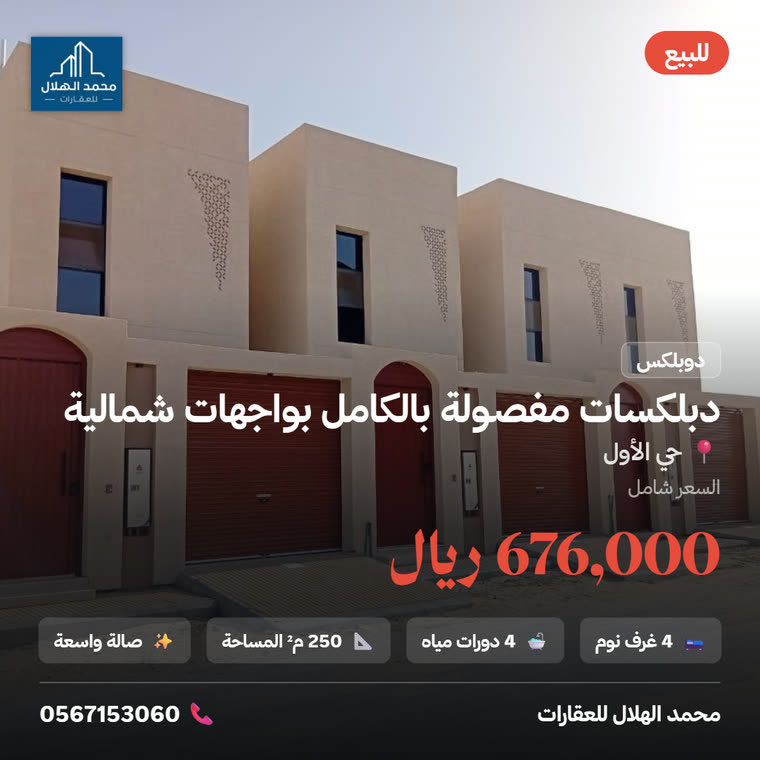
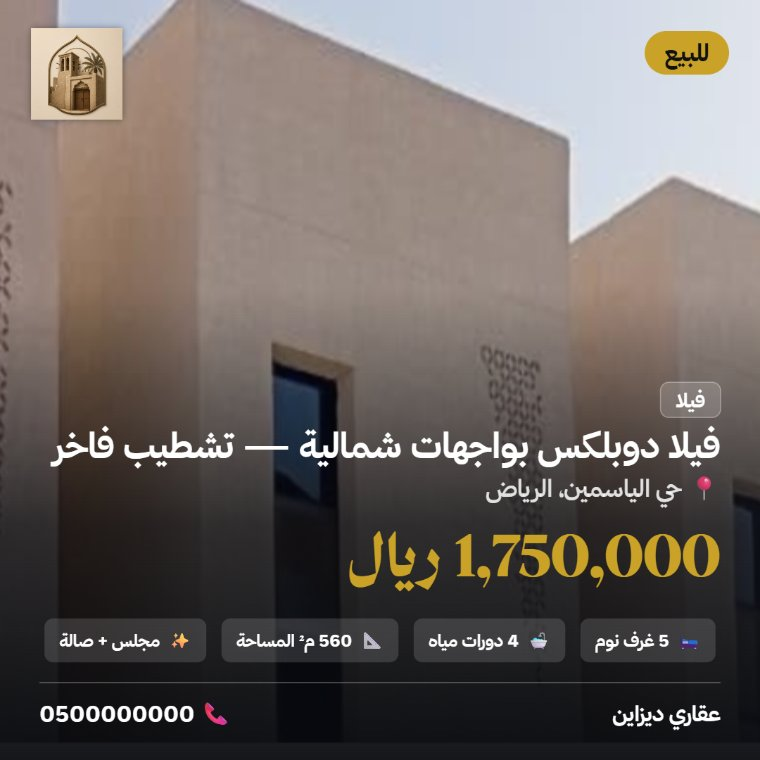
استبدال البيانات الشخصية في صور العرض ببيانات نموذجية
- إعادة توليد صورة "بعد" من محرّك الموقع نفسه: شعار عقاري ديزاين، اسم المكتب "عقاري ديزاين"، جوال 0500000000
- إعادة بناء صورة "قبل" بنفس البيانات النموذجية
- توحيد رقم الجوال في مثال اللصق الذكي
- استبعاد صور المستخدم المصدَّرة وملفات التوليد من المستودع

diff --git a/index.html b/index.html
@@ -508,7 +508,7 @@
 مساحة الأرض ٤٠٠ م، مسطح البناء 560م
 ٥ غرف + ٤ دورات مياه + مجلس
 السعر ١مليون و٧٥٠ ألف قابل للتفاوض
-للتواصل: ابو محمد 0551234567</div>
+للتواصل: ابو محمد 0500000000</div>
 
       <div class="arrowbox">
         <span class="ar">←</span>
@@ -521,7 +521,7 @@
         <div class="chip"><i>الموقع</i><b>حي الياسمين، الرياض</b></div>
         <div class="chip"><i>المساحة</i><b>560 م²</b></div>
         <div class="chip"><i>الغرف</i><b>5 غرف · 4 دورات مياه</b></div>
-        <div class="chip"><i>الوسيط</i><b>أبو محمد · 0551234567</b></div>
+        <div class="chip"><i>الوسيط</i><b>أبو محمد · 0500000000</b></div>
       </div>
     </div>
 
